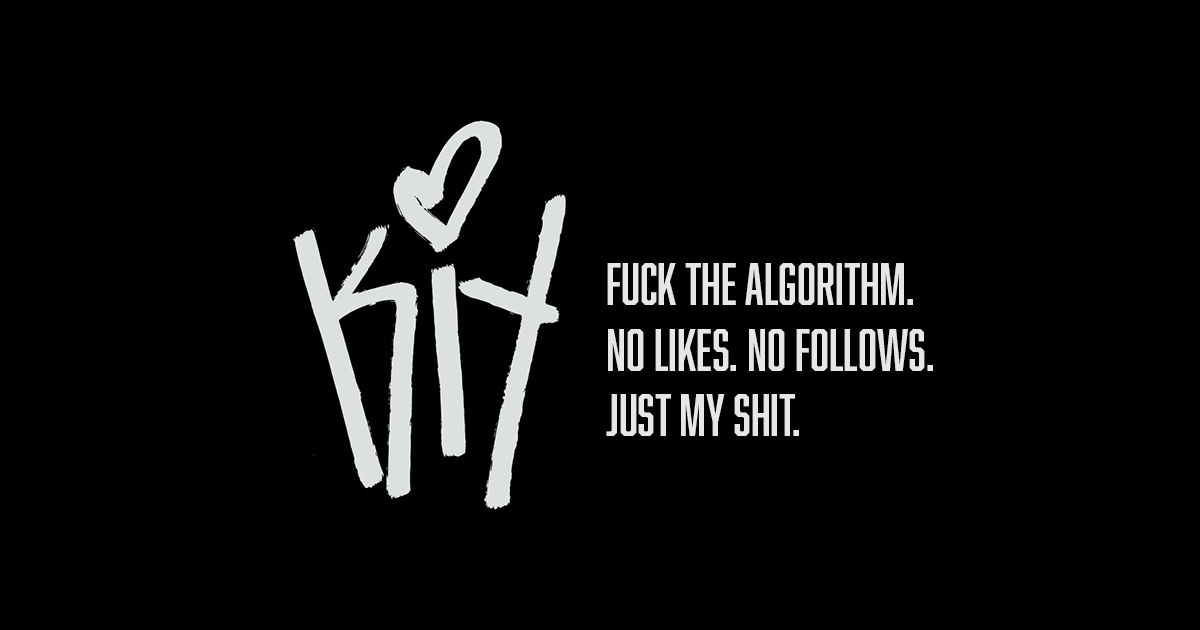
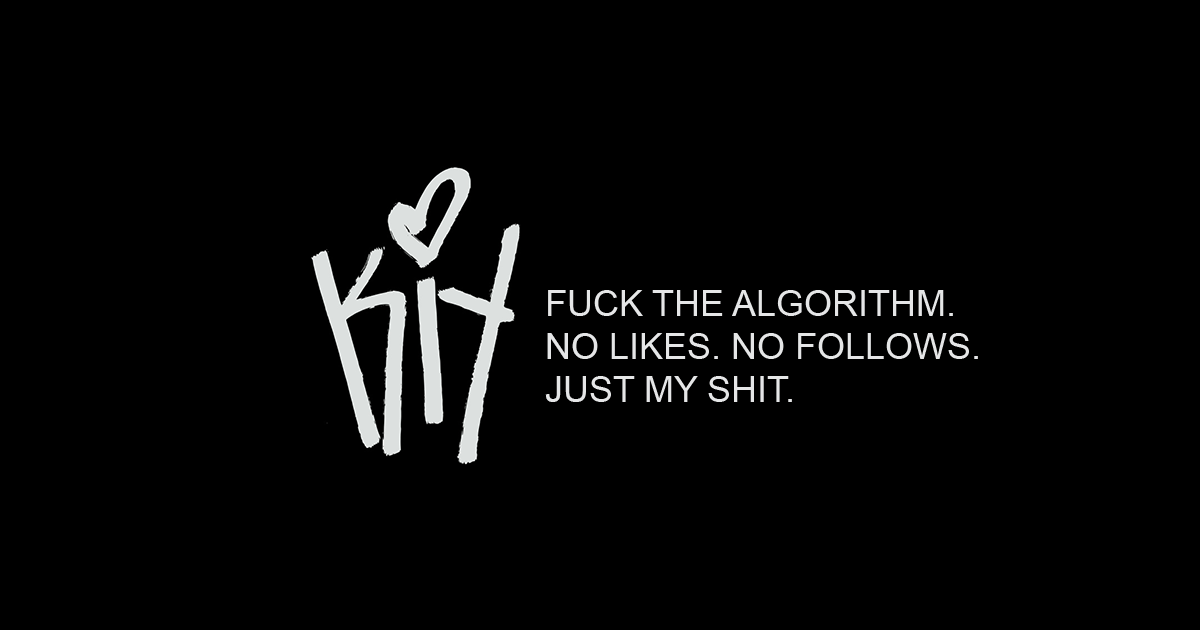
Preview card: Kit's third revision
Claude-Session: https://claude.ai/code/session_01H6iWRwyMLahCfEiZXNi4iU

Changed region(s): [[0.2467, 0.181, 0.8325, 0.8143]]

diff --git a/test.js b/test.js
@@ -23,7 +23,7 @@ let r = await req("/");
 let t = await r.text();
 check("empty feed renders", r.status === 200 && count(t, /<article/g) === 0);
 check("header has logo for light and dark", t.includes('src="/logo-light.png"') && t.includes('srcset="/logo-dark.png"'));
-check("front page has site preview tags", t.includes('property="og:title" content="Kitagram"') && t.includes('property="og:description" content="FUCK THE ALGORITHM.') && t.includes('property="og:image" content="https://www.kitagram.app/og.png?v=5"') && t.includes('og:url" content="https://www.kitagram.app/"') && t.includes('name="twitter:card" content="summary_large_image"'));
+check("front page has site preview tags", t.includes('property="og:title" content="Kitagram"') && t.includes('property="og:description" content="FUCK THE ALGORITHM.') && t.includes('property="og:image" content="https://www.kitagram.app/og.png?v=6"') && t.includes('og:url" content="https://www.kitagram.app/"') && t.includes('name="twitter:card" content="summary_large_image"'));
 check("header shows name and subtitle", t.includes('class="wordmark">Kitagram<') && t.includes('lengthAdjust="spacingAndGlyphs">FUCK THE ALGORITHM. NO LIKES. NO FOLLOWS. JUST MY SHIT.<'));
 
 // --- auth ---
@@ -83,7 +83,7 @@ check("permalink has preview tags", t.includes('property="og:title"') && t.inclu
   const mk = (type, data) => og({ id: "9", type, date: "2026-10-20T19:00:00Z", data });
   const val = (h, k) => h.match(new RegExp(`(?:property|name)="${k}" content="([^"]*)"`))?.[1];
   const text = mk("text", { body: "A long thought about why the feed is dead. ".repeat(10) });
-  check("text post preview: image is the site card, title cut, description differs", val(text, "og:image") === "https://www.kitagram.app/og.png?v=5" && val(text, "og:title").length <= 70 && val(text, "og:title").endsWith("…") && val(text, "og:description") !== val(text, "og:title"));
+  check("text post preview: image is the site card, title cut, description differs", val(text, "og:image") === "https://www.kitagram.app/og.png?v=6" && val(text, "og:title").length <= 70 && val(text, "og:title").endsWith("…") && val(text, "og:description") !== val(text, "og:title"));
   const photo = mk("photo", { src: "https://x.test/a.jpg", caption: "Dropping in on friends." });
   check("photo preview: its own picture, caption title, description not a repeat", val(photo, "og:image") === "https://x.test/a.jpg" && val(photo, "og:title") === "Dropping in on friends." && val(photo, "og:description") === "Kitagram · Oct 20, 2026" && val(photo, "twitter:card") === "summary_large_image");
   check("quote + link + audio previews", val(mk("quote", { text: "Hi", source: "Me" }), "og:title") === "“Hi”" && val(mk("link", { title: "T", url: "https://a.com/x" }), "og:description") === "a.com" && val(mk("audio", { title: "S", artist: "A", src: "/a.mp3" }), "og:description") === "A · audio");

diff --git a/site.config.js b/site.config.js
@@ -11,7 +11,7 @@ export default {
   textMe: { name: "Kit", number: process.env.SMS_NUMBER || "" },
 
   // Picture used in link previews for posts that have no picture of their own (text, quotes, links). 1200x630.
-  ogImage: "/og.png?v=5",
+  ogImage: "/og.png?v=6",
 
   // AI training/scraping. false = refuse known AI crawlers (robots.txt, headers, and a 403 for ones that identify themselves). true = allow.
   aiScraping: false,
